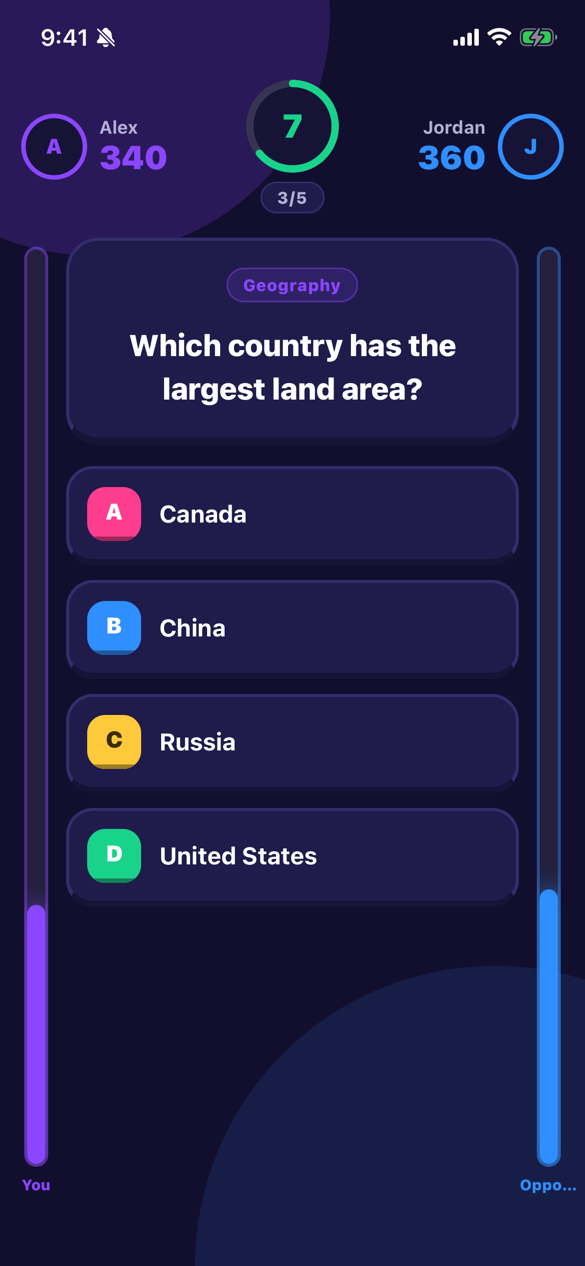
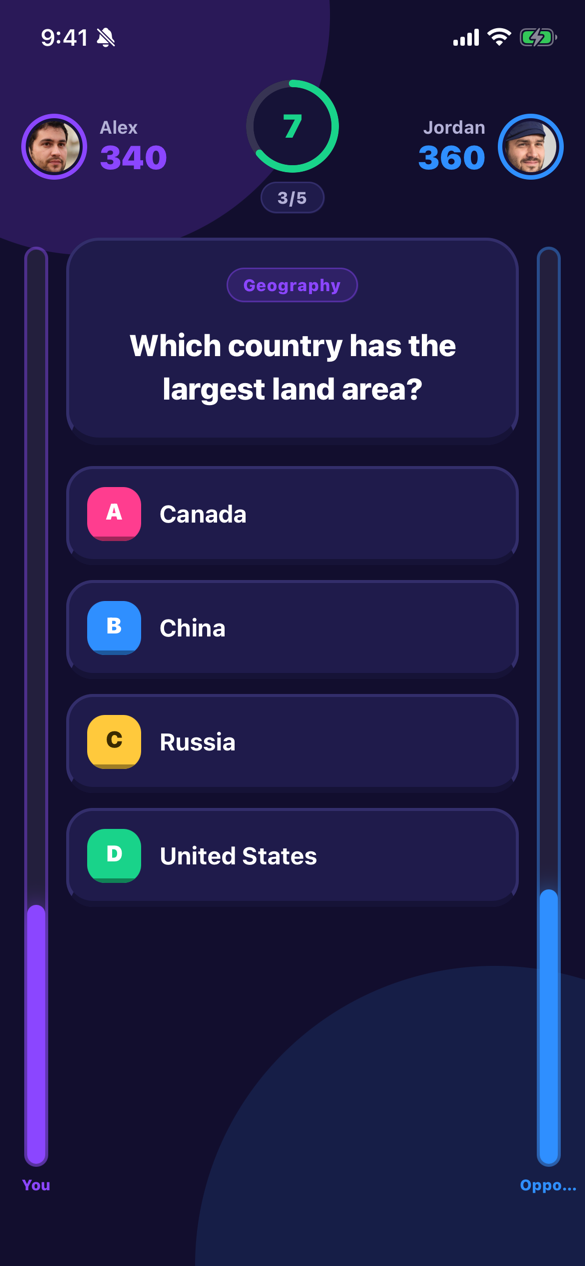
官网游戏截图：Mind Match / Draw & Guess / Quiz Battle / VibeCheck 玩家头像换成 AI 生成人脸
- 四张截图在模拟器里重拍，字母头像换成合成人脸（Maya、Emma、Jordan、Leo、Alex、Sam），
  人脸来自 this-person-does-not-exist.com，不对应任何真人，已裁掉水印
- Priya 改名 Emma，alt 文案同步

Changed region(s): [[0.8615, 0.0924, 0.9538, 0.154], [0.0308, 0.0924, 0.1538, 0.154]]

diff --git a/index.html b/index.html
@@ -394,7 +394,7 @@ html[data-lang="zh"] h2{line-height:1.2}
           <div class="gcap"><span class="tag" data-lang="en">Deduction · 5 players</span><span class="tag" data-lang="zh">推理 · 5 人</span><h3>Who is AI</h3><p data-lang="en">Five people in one group chat. One of them is an AI. Chat it out and find the bot.</p><p data-lang="zh">五个人在一个群聊里，其中一个是 AI。聊出来，把它找出来。</p></div>
         </article>
         <article class="gitem p">
-          <div class="phone"><img src="assets/game-mindmatch.png" alt="Mind Match reveal: Jordan chose My guitar, Maya and Priya read his mind" width="585" height="1266" loading="lazy" decoding="async"></div>
+          <div class="phone"><img src="assets/game-mindmatch.png" alt="Mind Match reveal: Jordan chose My guitar, Maya and Emma read his mind" width="585" height="1266" loading="lazy" decoding="async"></div>
           <div class="gcap"><span class="tag" data-lang="en">Mind · 5 players</span><span class="tag" data-lang="zh">读心 · 5 人</span><h3>Mind Match</h3><p data-lang="en">Guess what your friends would answer. Match minds, build streaks.</p><p data-lang="zh">猜朋友会怎么回答。猜中彼此，攒读心连击。</p></div>
         </article>
         <article class="gitem p">
